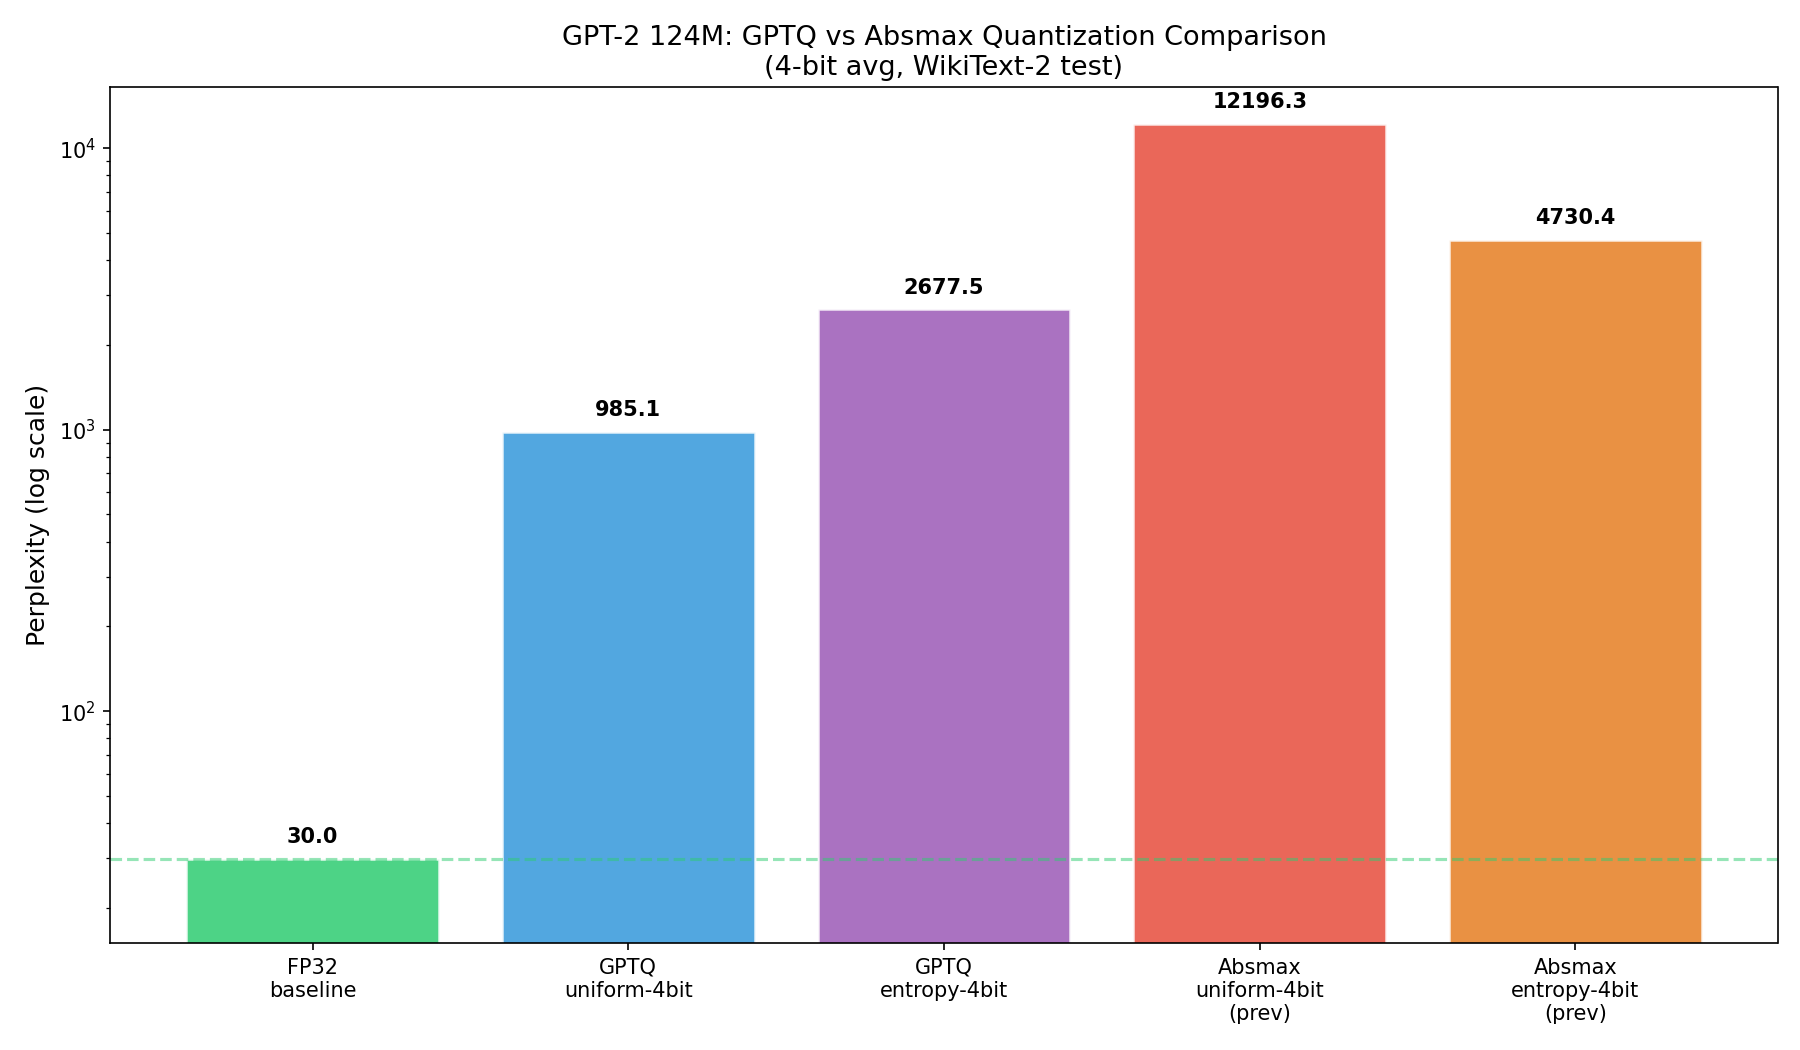
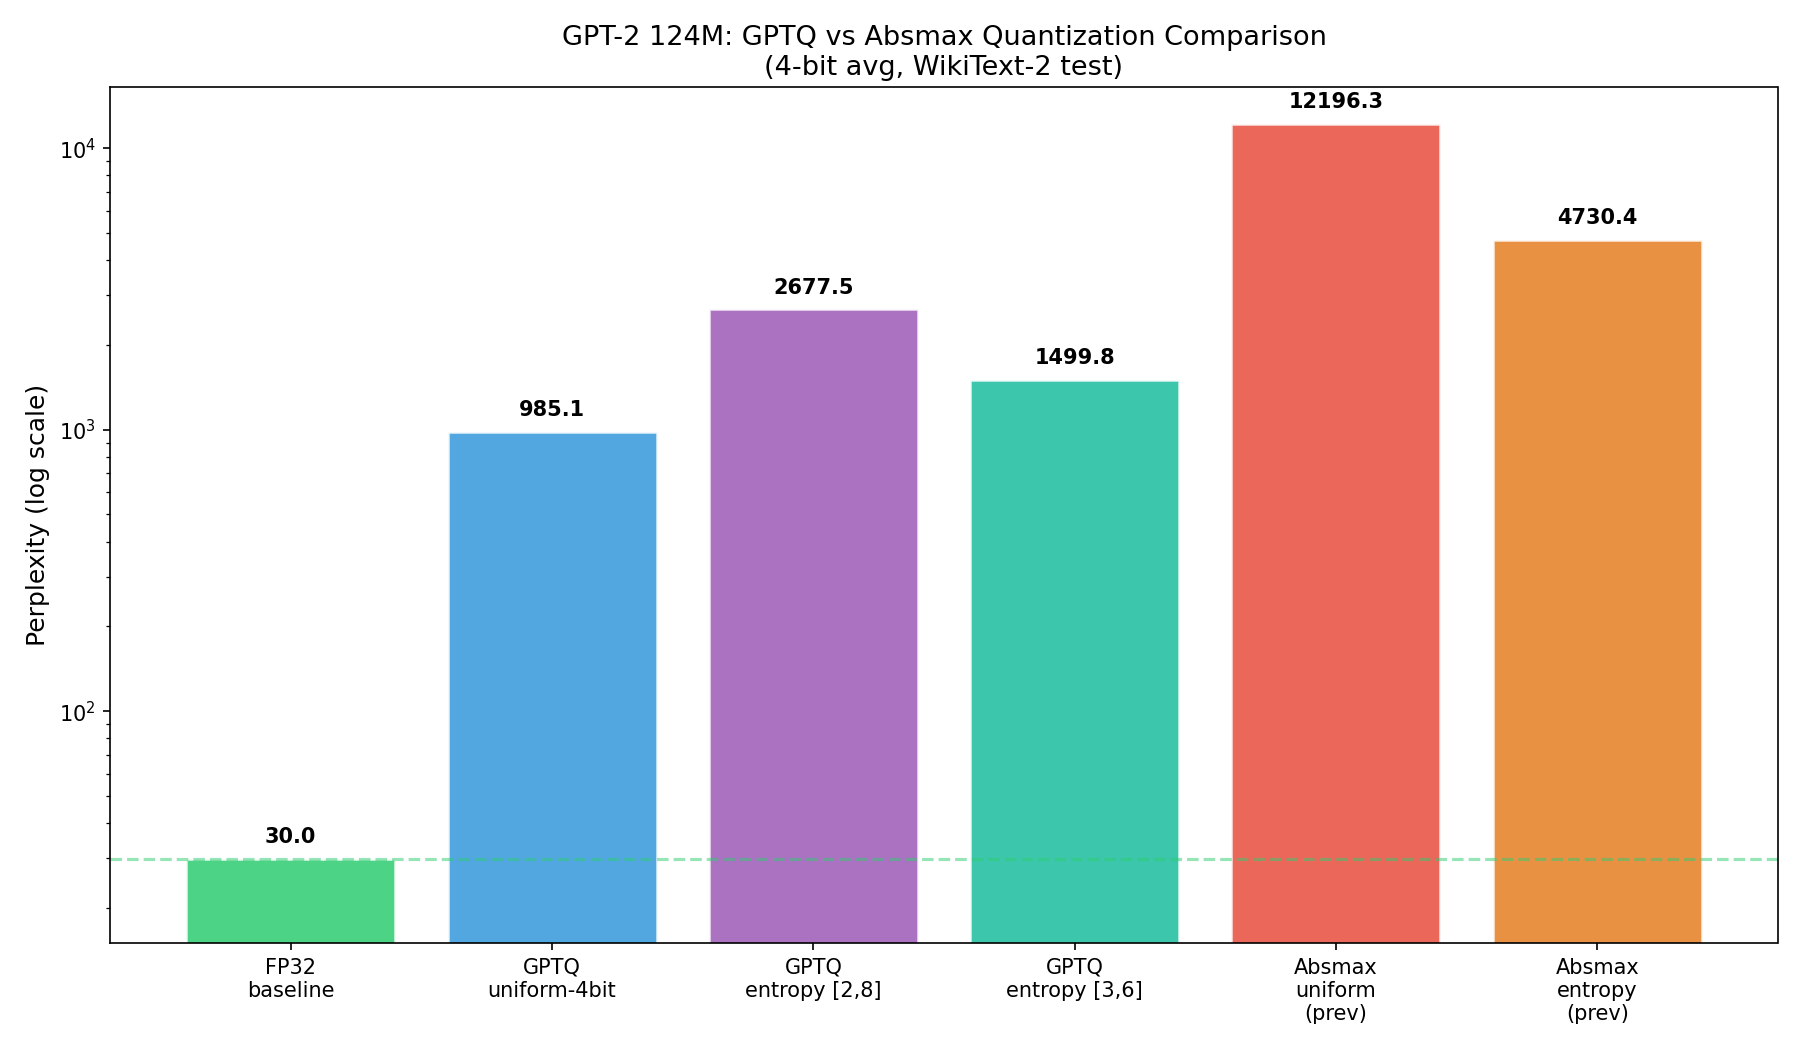
feat: GPTQ with narrow [3,6] entropy range — uniform still wins
Narrowing entropy allocation from [2,8] to [3,6] improved PPL from
2677 to 1500 (44% better), confirming 2-bit floor was the issue.
But GPTQ uniform (985) still beats entropy (1500).

Key finding: GPTQ's Hessian compensation already handles per-layer
sensitivity, making entropy allocation redundant in this regime.

diff --git a/gpt2_gptq_entropy.py b/gpt2_gptq_entropy.py
@@ -408,18 +408,28 @@ def plot_gptq_comparison(results: dict, save_path: str):
     method_labels = [
         "FP32\nbaseline",
         "GPTQ\nuniform-4bit",
-        "GPTQ\nentropy-4bit",
-        "Absmax\nuniform-4bit\n(prev)",
-        "Absmax\nentropy-4bit\n(prev)",
+        "GPTQ\nentropy [2,8]",
+        "GPTQ\nentropy [3,6]",
+        "Absmax\nuniform\n(prev)",
+        "Absmax\nentropy\n(prev)",
     ]
     ppls = [
         results["FP32 baseline"],
         results["GPTQ uniform 4-bit"],
-        results["GPTQ entropy-linear 4-bit"],
+        results.get(
+            "GPTQ entropy [2,8] 4-bit", results.get("GPTQ entropy-linear 4-bit", 0)
+        ),
+        results.get("GPTQ entropy [3,6] 4-bit", 0),
         ABSMAX_UNIFORM_PPL,
         ABSMAX_ENTROPY_PPL,
     ]
-    colors = ["#2ecc71", "#3498db", "#9b59b6", "#e74c3c", "#e67e22"]
+    # Filter out zero entries (if narrow wasn't run)
+    active = [(l, p) for l, p in zip(method_labels, ppls) if p > 0]
+    method_labels = [a[0] for a in active]
+    ppls = [a[1] for a in active]
+    colors = ["#2ecc71", "#3498db", "#9b59b6", "#1abc9c", "#e74c3c", "#e67e22"][
+        : len(ppls)
+    ]
 
     fig, ax = plt.subplots(figsize=(12, 7))
     bars = ax.bar(
@@ -490,13 +500,17 @@ if __name__ == "__main__":
     TARGET_BITS = 4.0
 
     plan_uniform = uniform_allocation(linear_names, bits=4)
-    plan_entropy = entropy_linear_allocation(
+    plan_entropy_wide = entropy_linear_allocation(
         entropies, min_bits=2, max_bits=8, target_mean_bits=TARGET_BITS
+    )
+    plan_entropy_narrow = entropy_linear_allocation(
+        entropies, min_bits=3, max_bits=6, target_mean_bits=TARGET_BITS
     )
 
     for plan_name, plan in [
         ("uniform-4bit", plan_uniform),
-        ("entropy-linear", plan_entropy),
+        ("entropy-wide [2,8]", plan_entropy_wide),
+        ("entropy-narrow [3,6]", plan_entropy_narrow),
     ]:
         bits_vals = list(plan.layer_bits.values())
         print(
@@ -519,21 +533,33 @@ if __name__ == "__main__":
     ppl_gptq_uniform = measure_perplexity(q_model_uniform, tokenizer)
     del q_model_uniform
 
-    # -- 6. GPTQ Entropy 4-bit ------------------------------------------------
+    # -- 6. GPTQ Entropy Wide [2,8] -------------------------------------------
     print("\n" + "=" * 65)
-    print("Step 6: GPTQ Entropy-Linear 4-bit")
+    print("Step 6: GPTQ Entropy-Linear [2,8] 4-bit")
     print("=" * 65)
-    print("  Applying GPTQ with entropy-linear allocation...")
-    q_model_entropy = apply_gptq_plan(model, plan_entropy, hessians)
-    ppl_gptq_entropy = measure_perplexity(q_model_entropy, tokenizer)
-    del q_model_entropy
+    print("  Applying GPTQ with entropy-linear [2,8] allocation...")
+    q_model_entropy_wide = apply_gptq_plan(model, plan_entropy_wide, hessians)
+    ppl_gptq_entropy_wide = measure_perplexity(q_model_entropy_wide, tokenizer)
+    del q_model_entropy_wide
+
+    # -- 6b. GPTQ Entropy Narrow [3,6] ----------------------------------------
+    print("\n" + "=" * 65)
+    print("Step 6b: GPTQ Entropy-Linear [3,6] 4-bit")
+    print("=" * 65)
+    print("  Applying GPTQ with entropy-linear [3,6] allocation...")
+    q_model_entropy_narrow = apply_gptq_plan(model, plan_entropy_narrow, hessians)
+    ppl_gptq_entropy_narrow = measure_perplexity(q_model_entropy_narrow, tokenizer)
+    del q_model_entropy_narrow
 
     # -- 7. Results Table -----------------------------------------------------
     results = {
         "FP32 baseline": ppl_fp32,
         "GPTQ uniform 4-bit": ppl_gptq_uniform,
-        "GPTQ entropy-linear 4-bit": ppl_gptq_entropy,
+        "GPTQ entropy [2,8] 4-bit": ppl_gptq_entropy_wide,
+        "GPTQ entropy [3,6] 4-bit": ppl_gptq_entropy_narrow,
     }
+    # Keep old variable name for backward compat in printing
+    ppl_gptq_entropy = ppl_gptq_entropy_wide
 
     def delta_str(ppl, base):
         d = (ppl - base) / base * 100
@@ -552,8 +578,12 @@ if __name__ == "__main__":
         f"{delta_str(ppl_gptq_uniform, ppl_fp32):>15}"
     )
     print(
-        f"{'GPTQ entropy-linear 4-bit':<40} {ppl_gptq_entropy:>10.2f}  "
-        f"{delta_str(ppl_gptq_entropy, ppl_fp32):>15}"
+        f"{'GPTQ entropy [2,8] 4-bit':<40} {ppl_gptq_entropy_wide:>10.2f}  "
+        f"{delta_str(ppl_gptq_entropy_wide, ppl_fp32):>15}"
+    )
+    print(
+        f"{'GPTQ entropy [3,6] 4-bit':<40} {ppl_gptq_entropy_narrow:>10.2f}  "
+        f"{delta_str(ppl_gptq_entropy_narrow, ppl_fp32):>15}"
     )
     print(
         f"{'Absmax uniform 4-bit (prev)':<40} {ABSMAX_UNIFORM_PPL:>10.2f}  "
